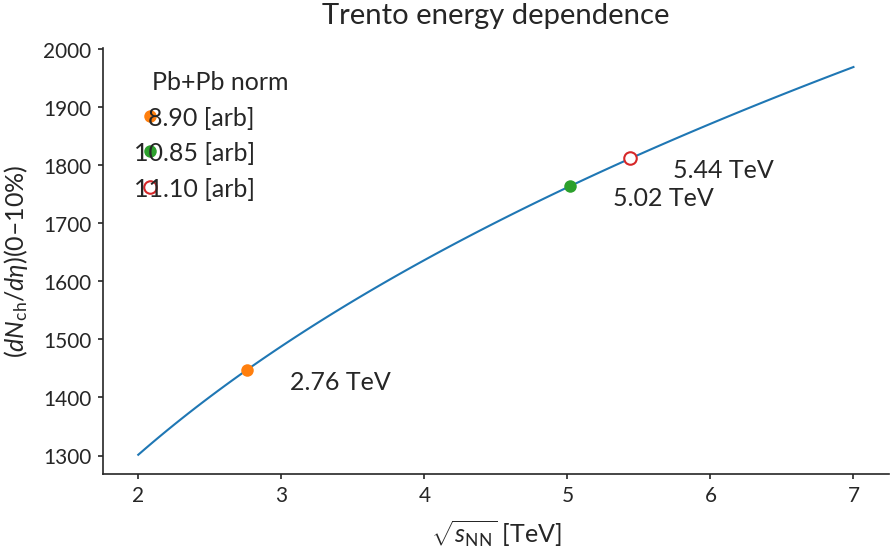
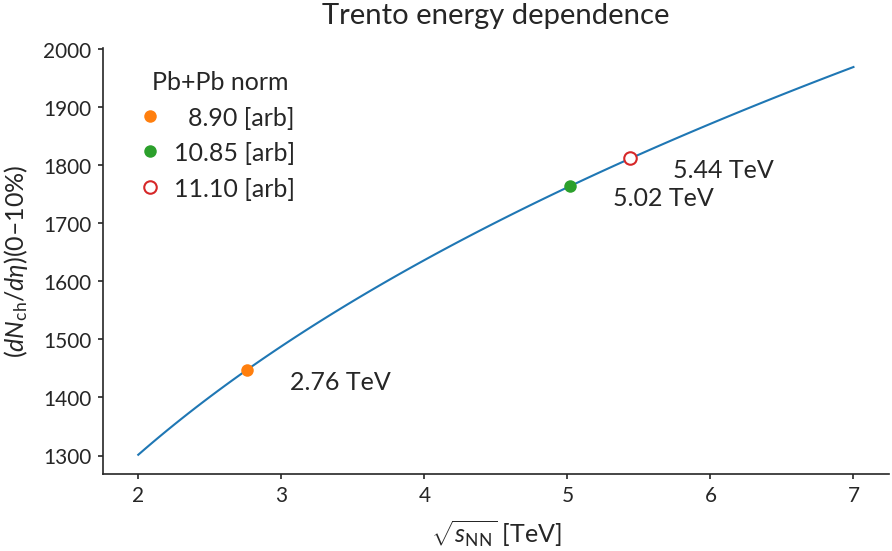
fix overlapping label

Changed region(s): [[0.1513, 0.1851, 0.333, 0.3702]]

diff --git a/src/plots.py b/src/plots.py
@@ -538,7 +538,7 @@ def entropy_norm():
 
     for t in legend.get_texts():
         t.set_ha('right')
-        t.set_position((60, 0))
+        t.set_position((100, 0))
 
     set_tight(fig)
 
